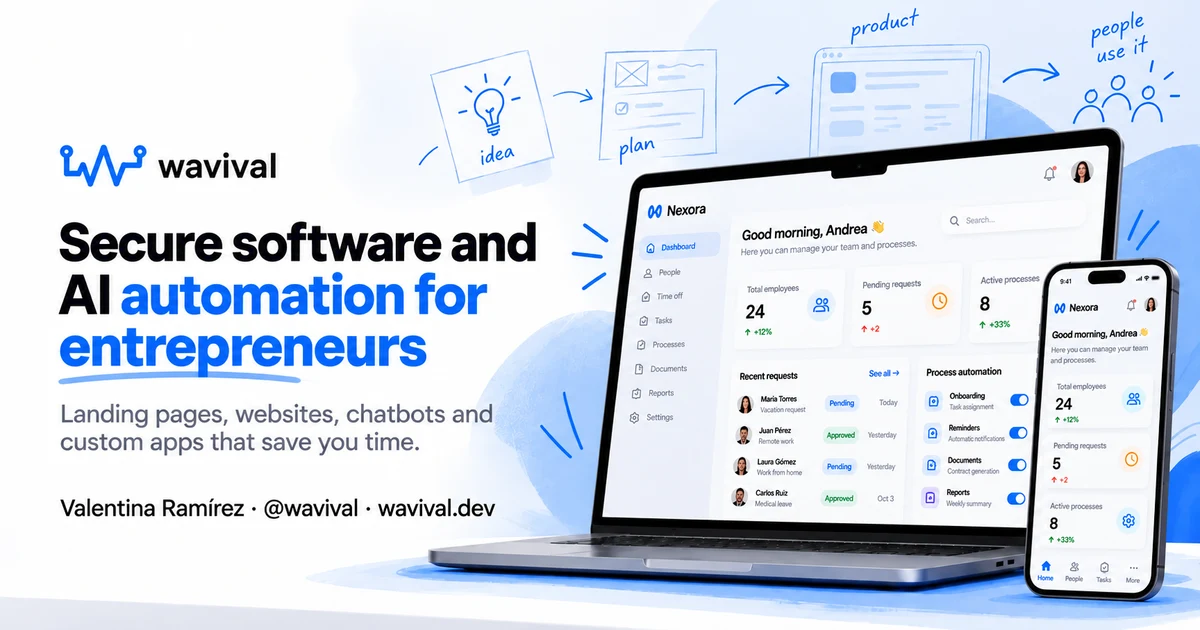
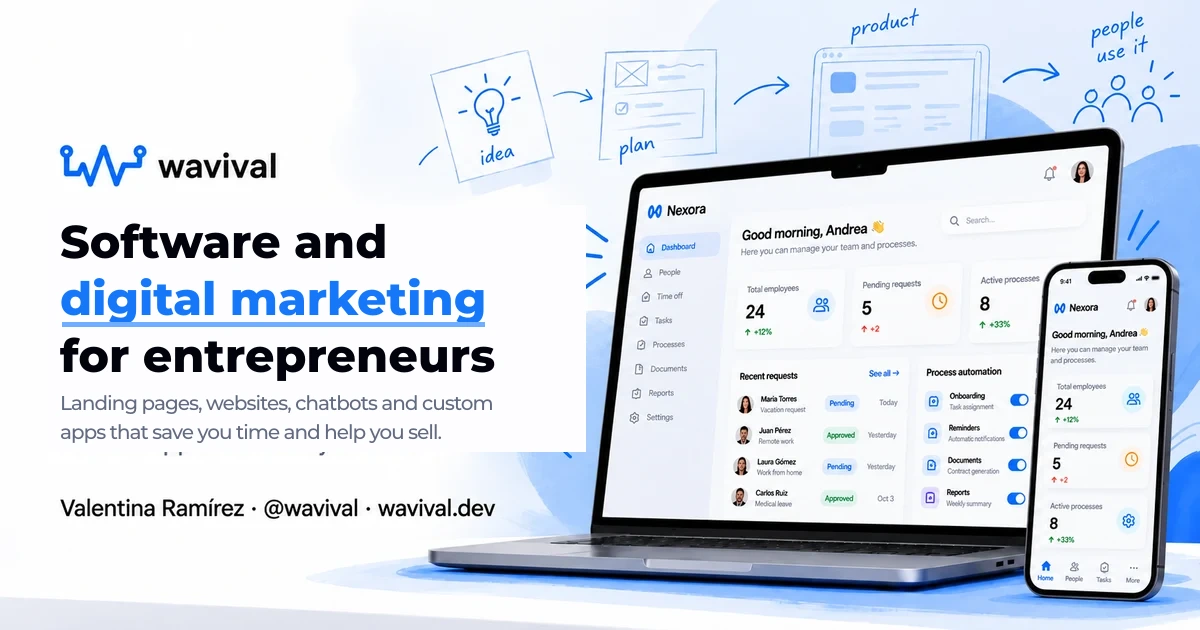
feat(ui): redraw the default social cards for the new positioning (#176)

Changed region(s): [[0.0308, 0.3317, 0.4933, 0.7238], [0.925, 0.0302, 0.9558, 0.0603], [0.8942, 0.1508, 0.925, 0.181]]

diff --git a/tests/positioning.spec.ts b/tests/positioning.spec.ts
@@ -15,7 +15,7 @@ const HOME = {
     description:
       "Ayudo a emprendedores a ahorrar tiempo con software seguro y automatización con IA: landing pages, sitios web, chatbots y apps a medida, construidos en público.",
     ogAlt:
-      "Software seguro y automatización con IA para emprendedores. Landing pages, sitios web, chatbots y apps a medida que te ahorran tiempo. Valentina Ramírez · @wavival · wavival.dev",
+      "Software y marketing digital para emprendedores. Landing pages, sitios web, chatbots y apps a medida que te ahorran tiempo y te ayudan a vender. Valentina Ramírez · @wavival · wavival.dev",
     footer:
       "Desarrolladora de software. Backend, IA y seguridad. Herramientas que le ahorran tiempo a tu negocio.",
   },
@@ -25,7 +25,7 @@ const HOME = {
     description:
       "I help entrepreneurs save time with secure software and AI automation: landing pages, websites, chatbots and custom apps, built in public.",
     ogAlt:
-      "Secure software and AI automation for entrepreneurs. Landing pages, websites, chatbots and custom apps that save you time. Valentina Ramírez · @wavival · wavival.dev",
+      "Software and digital marketing for entrepreneurs. Landing pages, websites, chatbots and custom apps that save you time and help you sell. Valentina Ramírez · @wavival · wavival.dev",
     footer: "Software developer. Backend, AI and security. Tools that save your business time.",
   },
 } as const;

diff --git a/CHANGELOG.md b/CHANGELOG.md
@@ -74,6 +74,7 @@ and this project adheres to [Semantic Versioning](https://semver.org/spec/v2.0.0
 
 ### Changed
 
+- Default social cards and their alt follow the software and digital marketing positioning.
 - Quote form selects: the option list takes the design of the site in every desktop browser, Firefox included, instead of only where `appearance: base-select` exists. `src/scripts/quoteSelect.ts` adds a WAI-ARIA select-only combobox over each native select on fine pointers (full keyboard support with type-ahead, label focus, upward opening near the bottom of the window, error state after use); the native select stays in the form for the value, validation and submit, and touch devices keep their native picker. The `base-select` CSS is gone, and the quote form script now ships as a file, so its CSP hash leaves `vercel.json` (6 hashes). `tests/quote-select.spec.ts`.
 - Titles of at most 60 characters and descriptions of at most 160 on every page, shortened without changing the message: the home and services titles lose their tail ("para emprendedores", "| Valentina Ramírez"), a case-study title whose project name is too long uses the short name ("TerraCore: Caso de estudio | Valentina Ramírez", `TITLE_MAX` in `src/data/projectSeo.ts`), and the services, about, tools and privacy descriptions are trimmed. The Spanish 404 gets its own description. `tests/meta-length.spec.ts` keeps every title and description within the limits and unique.
 - Monthly SEO refusals are identical: unknown email, lead not won, no development service, a failed lookup or a missing database all answer the same 422 body, never before 1200 ms from the start of the check, so the answer does not reveal whether an email is a client. The form shows "Este servicio es solo para clientes que han contratado un servicio de desarrollo conmigo." / "This service is only available to clients who have hired me for a development service.".

diff --git a/docs/seo.md b/docs/seo.md
@@ -1,6 +1,6 @@
 # SEO, indexing and GEO
 
-> Last updated: 2026-11-07
+> Last updated: 2026-11-10
 
 How the site is made discoverable by search engines and AI assistants, and what to update when a page, a project or a slug changes. Per-language rules live in [`i18n.md`](./i18n.md); performance and accessibility have their own documents.
 
@@ -29,7 +29,7 @@ How the site is made discoverable by search engines and AI assistants, and what 
 - Twitter Card `summary_large_image` with `@wavival0`.
 - Icons, `site.webmanifest` and `theme-color`.
 
-Default social cards are `public/images/og-card-es.webp` and `og-card-en.webp` (illustrations with the text "Creo productos digitales" / "I build digital products"; the default `og:image:alt` describes them and there is no script that regenerates them). Project cards and their Open Graph metadata resolve the matching `-es.webp` or `-en.webp` asset with `localizedProjectImage()` in `src/data/projectView.ts` (the base filename lives in `projects.ts`).
+Default social cards are `public/images/og-card-es.webp` and `og-card-en.webp` (illustrations with the text "Software y marketing digital para emprendedores" / "Software and digital marketing for entrepreneurs"; the default `og:image:alt` describes them and there is no script that regenerates them). Project cards and their Open Graph metadata resolve the matching `-es.webp` or `-en.webp` asset with `localizedProjectImage()` in `src/data/projectView.ts` (the base filename lives in `projects.ts`).
 
 ## Structured data (JSON-LD)
 

diff --git a/docs/ROADMAP.md b/docs/ROADMAP.md
@@ -1,11 +1,12 @@
 # Roadmap
 
-> Last updated: 2026-11-09
+> Last updated: 2026-11-10
 
 What is pending in the portfolio. Items marked "Decision" need the owner. Pending work of the projects shown here lives in each project's repository: `nullbreach` (`docs/ROADMAP.md`), `forgotten-portal-writeup` (`docs/ROADMAP.md`), `blog-w` (`ROADMAP.md`), `luminaw-page` (`docs/ROADMAP.md`) and `okroot-docs` (`docs/pendientes-*.md`).
 
 ## Decisions
 
+- [x] New default social cards (`og-card-es.webp`, `og-card-en.webp`) for the software and digital marketing positioning (resolved 2026-11-10).
 - [x] Calendly on the contact pages (resolved 2026-11-09): it loads only after a click, so no third-party cookie reaches the first load; best practices 77 to 100.
 - [ ] Payment methods: Bancolombia, Global66 and Bold with a 50% deposit come from the owner's brief (2026-11-09) and appear in the services FAQ and `llms-full.txt`. Add which method applies to which case if that matters.
 - [ ] Monthly SEO check (`api/quote.ts`): it counts a won `wavival` lead with a development service, the REST APIs block or a kit, and every refusal answers the same way. A new client asking for a development service and monthly SEO in the same quote is refused today; decide whether that combination should pass.
